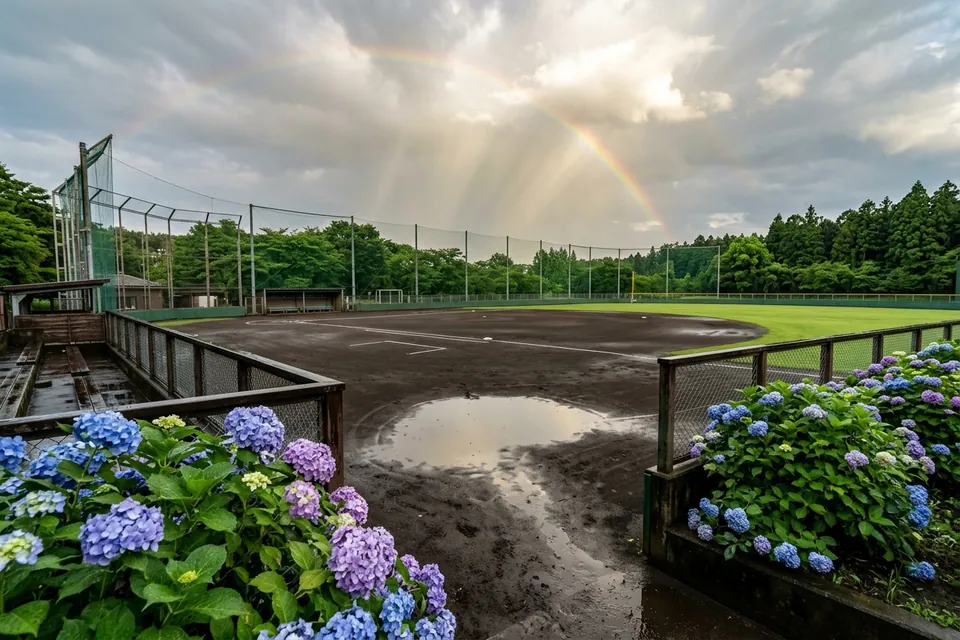
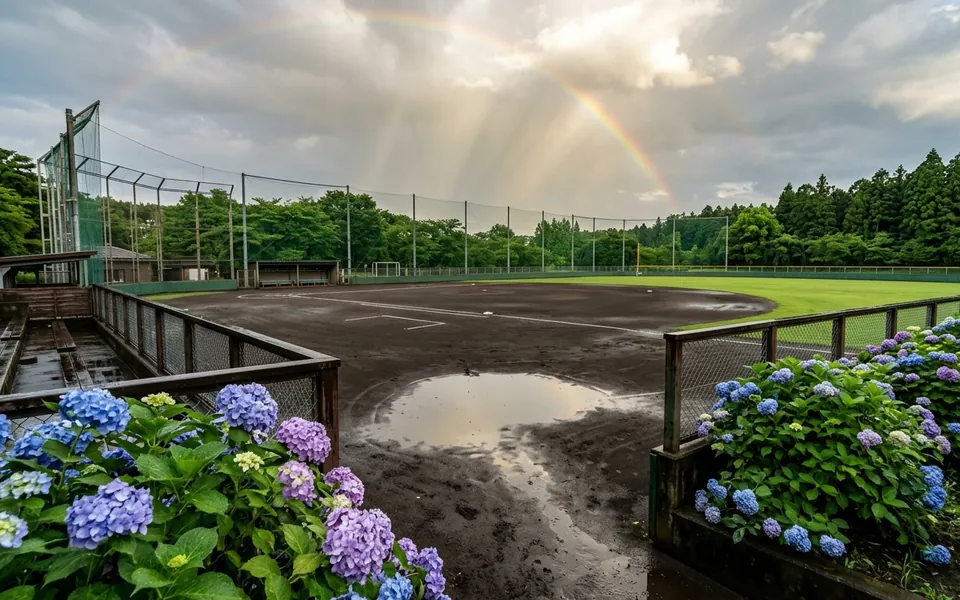
style(liff): reframe 12-month calendar photos so baseball diamond and seasonal scenery both show clearly

diff --git a/src/lib/liff/calendar-month-bg.ts b/src/lib/liff/calendar-month-bg.ts
@@ -3,89 +3,89 @@
 export interface CalendarMonthPhotoMeltAsset {
   /** 1〜12 の月番号 */
   month: number;
-  /** public/ 配下の静的 WebP パス（960×640） */
+  /** public/ 配下の静的 WebP パス（960×600） */
   src: string;
-  /** 上部フォト帯で季節モチーフとグラウンドが最も映える object-position クラス */
+  /** 上部フォト帯で季節モチーフと野球グラウンド双方が映える object-position クラス */
   objectPosition: string;
   /** 季節テーマ名（テスト・管理参照用） */
   seasonTheme: string;
 }
 
 /**
- * 月間カレンダー（1月〜12月）用の季節×野球グラウンド専用WebPマップ（全12種・960×640）
+ * 月間カレンダー（1月〜12月）用の季節×野球グラウンド専用WebPマップ（全12種・960×600）
  * 特定の人物・背番号・文字看板を含まない日本の野球場と四季の情景で構成
  */
 export const CALENDAR_MONTH_PHOTO_MELT_ASSETS: readonly CalendarMonthPhotoMeltAsset[] = [
   {
     month: 1,
     src: "/calendar-bg-01.webp",
-    objectPosition: "object-[center_46%]",
+    objectPosition: "object-[center_60%]",
     seasonTheme: "新春・初日の出と朝霜の河川敷グラウンド",
   },
   {
     month: 2,
     src: "/calendar-bg-02.webp",
-    objectPosition: "object-[center_40%]",
+    objectPosition: "object-[center_72%]",
     seasonTheme: "紅白梅と早春の野球場",
   },
   {
     month: 3,
     src: "/calendar-bg-03.webp",
-    objectPosition: "object-[center_48%]",
+    objectPosition: "object-[center_68%]",
     seasonTheme: "菜の花咲く春の河川敷グラウンド",
   },
   {
     month: 4,
     src: "/calendar-bg-04.webp",
-    objectPosition: "object-[center_38%]",
+    objectPosition: "object-[center_70%]",
     seasonTheme: "満開の桜並木と黒土の野球場",
   },
   {
     month: 5,
     src: "/calendar-bg-05.webp",
-    objectPosition: "object-[center_46%]",
+    objectPosition: "object-[center_62%]",
     seasonTheme: "新緑と五月晴れのスタジアム",
   },
   {
     month: 6,
     src: "/calendar-bg-06.webp",
-    objectPosition: "object-[center_52%]",
+    objectPosition: "object-[center_62%]",
     seasonTheme: "紫陽花と梅雨の晴れ間・虹のグラウンド",
   },
   {
     month: 7,
     src: "/calendar-bg-07.webp",
-    objectPosition: "object-[center_58%]",
+    objectPosition: "object-[center_65%]",
     seasonTheme: "ひまわり咲く初夏の野球場と青空",
   },
   {
     month: 8,
     src: "/calendar-bg-08.webp",
-    objectPosition: "object-[center_42%]",
+    objectPosition: "object-[center_70%]",
     seasonTheme: "真夏の入道雲と熱闘スタジアム",
   },
   {
     month: 9,
     src: "/calendar-bg-09.webp",
-    objectPosition: "object-[center_52%]",
+    objectPosition: "object-[center_74%]",
     seasonTheme: "うろこ雲とコスモス揺れる秋晴れの球場",
   },
   {
     month: 10,
     src: "/calendar-bg-10.webp",
-    objectPosition: "object-[center_46%]",
+    objectPosition: "object-[center_62%]",
     seasonTheme: "黄金色のススキと夕焼けの河川敷球場",
   },
   {
     month: 11,
     src: "/calendar-bg-11.webp",
-    objectPosition: "object-[center_46%]",
+    objectPosition: "object-[center_66%]",
     seasonTheme: "紅葉とイチョウ並木の秋色スタジアム",
   },
   {
     month: 12,
     src: "/calendar-bg-12.webp",
-    objectPosition: "object-[center_48%]",
+    objectPosition: "object-[center_62%]",
     seasonTheme: "雪化粧の冬空スタジアム",
   },
 ] as const;

diff --git a/src/components/liff/CalendarMonthPhotoMelt.tsx b/src/components/liff/CalendarMonthPhotoMelt.tsx
@@ -9,9 +9,14 @@ import {
 } from "@/lib/liff/calendar-month-bg";
 
 const preloadedCalendarSources = new Set<string>();
+const CALENDAR_PHOTO_ASSET_REVISION = "2";
+
+function withCalendarAssetRevision(src: string): string {
+  return `${src}?v=${CALENDAR_PHOTO_ASSET_REVISION}`;
+}
 
 const CALENDAR_PHOTO_MELT_MASK =
-  "linear-gradient(to bottom, rgba(0,0,0,0.96) 0%, rgba(0,0,0,0.88) 36%, rgba(0,0,0,0.22) 60%, rgba(0,0,0,0.05) 82%, rgba(0,0,0,0) 100%)";
+  "linear-gradient(to bottom, rgba(0,0,0,0.98) 0%, rgba(0,0,0,0.90) 58%, rgba(0,0,0,0.36) 70%, rgba(0,0,0,0.11) 83%, rgba(0,0,0,0.02) 93%, rgba(0,0,0,0) 100%)";
 
 export interface CalendarMonthPhotoMeltProps {
   /** 表示中の月（1〜12） */
@@ -25,7 +30,7 @@ export interface CalendarMonthPhotoMeltProps {
 
 /**
  * 月間カレンダーの A-3 上帯ダークキャップ直下に配置する季節フォト背景染み込みレイヤー
- * - 上部で月別の野球場×季節風景を見せ、曜日〜日付グリッド上部へ mask-image で段階透過して bg-card へ溶け込ませる
+ * - 上部で季節風景＋野球グラウンド（外野芝・黒土ダイヤモンド・白線）までくっきり見せ、曜日〜日付グリッド上部へ mask-image で段階透過して bg-card へ溶け込ませる
  * - 前月・翌月のWebPをバックグラウンドで先読みし、月切り替え時の空白チラつきをゼロにする
  */
 export function CalendarMonthPhotoMelt({
@@ -35,16 +40,18 @@ export function CalendarMonthPhotoMelt({
   className,
 }: CalendarMonthPhotoMeltProps) {
   const asset = resolveCalendarMonthPhotoMelt(month);
+  const versionedSrc = withCalendarAssetRevision(asset.src);
 
   useEffect(() => {
     if (typeof window === "undefined") return;
     const neighbors = getAdjacentCalendarMonthPhotoMelts(month);
     for (const item of neighbors) {
-      if (preloadedCalendarSources.has(item.src)) continue;
-      preloadedCalendarSources.add(item.src);
+      const neighborUrl = withCalendarAssetRevision(item.src);
+      if (preloadedCalendarSources.has(neighborUrl)) continue;
+      preloadedCalendarSources.add(neighborUrl);
       const img = new window.Image();
       img.decoding = "async";
-      img.src = item.src;
+      img.src = neighborUrl;
     }
   }, [month]);
 
@@ -53,15 +60,15 @@ export function CalendarMonthPhotoMelt({
       aria-hidden="true"
       className={cn(
         "absolute inset-x-0 top-0 pointer-events-none select-none overflow-hidden",
-        variant === "compact" ? "h-42 sm:h-48" : "h-46 sm:h-52",
+        variant === "compact" ? "h-48 sm:h-56" : "h-53 sm:h-60",
         className
       )}
     >
       <img
-        src={asset.src}
+        src={versionedSrc}
         alt=""
         width={960}
-        height={640}
+        height={600}
         loading={eager ? "eager" : "lazy"}
         decoding="async"
         style={{

diff --git a/src/app/liff/schedule/page.tsx b/src/app/liff/schedule/page.tsx
@@ -1319,7 +1319,7 @@ export default function LiffSchedulePage() {
           <div className="relative bg-card overflow-hidden">
             <CalendarMonthPhotoMelt month={currentMonth + 1} variant="compact" eager />
 
-            <div className="relative z-10 px-2.5 pb-2.5 pt-24 sm:px-3 sm:pb-3 sm:pt-28 space-y-1.5">
+            <div className="relative z-10 px-2.5 pb-2.5 pt-32 sm:px-3 sm:pb-3 sm:pt-38 space-y-1.5">
           {/* 曜日ヘッダー */}
           <div className="grid grid-cols-7 gap-0.5 text-center text-[10px] font-black pb-0.5 border-b border-border/60">
             {weekDays.map((w, idx) => (
@@ -1330,7 +1330,7 @@ export default function LiffSchedulePage() {
                     ? "text-red-600 dark:text-red-400"
                     : idx === 6
                     ? "text-blue-600 dark:text-blue-400"
-                    : "text-foreground/80"
+                    : "text-foreground"
                 }
               >
                 {w}

diff --git a/src/components/schedule/MonthlySchedulePlanner.tsx b/src/components/schedule/MonthlySchedulePlanner.tsx
@@ -899,7 +899,7 @@ export function MonthlySchedulePlanner({
         <div className="relative bg-card overflow-hidden">
           <CalendarMonthPhotoMelt month={currentMonth + 1} variant="default" eager />
 
-          <div className="relative z-10 px-3.5 pb-3.5 pt-28 sm:pt-32 space-y-2">
+          <div className="relative z-10 px-3.5 pb-3.5 pt-36 sm:pt-41 space-y-2">
           {/* 曜日ヘッダー */}
           <div className="grid grid-cols-7 gap-1 text-center text-xs font-black">
             {weekDays.map((w, idx) => (
@@ -911,7 +911,7 @@ export function MonthlySchedulePlanner({
                     ? "text-red-600 dark:text-red-400 bg-red-500/8"
                     : idx === 6
                     ? "text-blue-600 dark:text-blue-400 bg-blue-500/8"
-                    : "text-foreground/80"
+                    : "text-foreground"
                 )}
               >
                 {w}

diff --git a/src/components/liff/HubCalendarSection.tsx b/src/components/liff/HubCalendarSection.tsx
@@ -279,9 +279,9 @@ export function HubCalendarSection({
         <div className="relative bg-card overflow-hidden">
           <CalendarMonthPhotoMelt month={currentMonth + 1} variant="default" />
 
-          <div className="relative z-10 px-3.5 pb-3.5 pt-28 sm:pt-32 space-y-2.5">
+          <div className="relative z-10 px-3.5 pb-3.5 pt-36 sm:pt-41 space-y-2.5">
         {/* ━━ 2. 曜日ヘッダー ━━ */}
-        <div className="grid grid-cols-7 text-center text-[10px] font-black text-foreground/80 uppercase pb-0.5 border-b border-border/60">
+        <div className="grid grid-cols-7 text-center text-[10px] font-black text-foreground uppercase pb-0.5 border-b border-border/60">
           {weekDays.map((day, idx) => (
             <span
               key={day}
